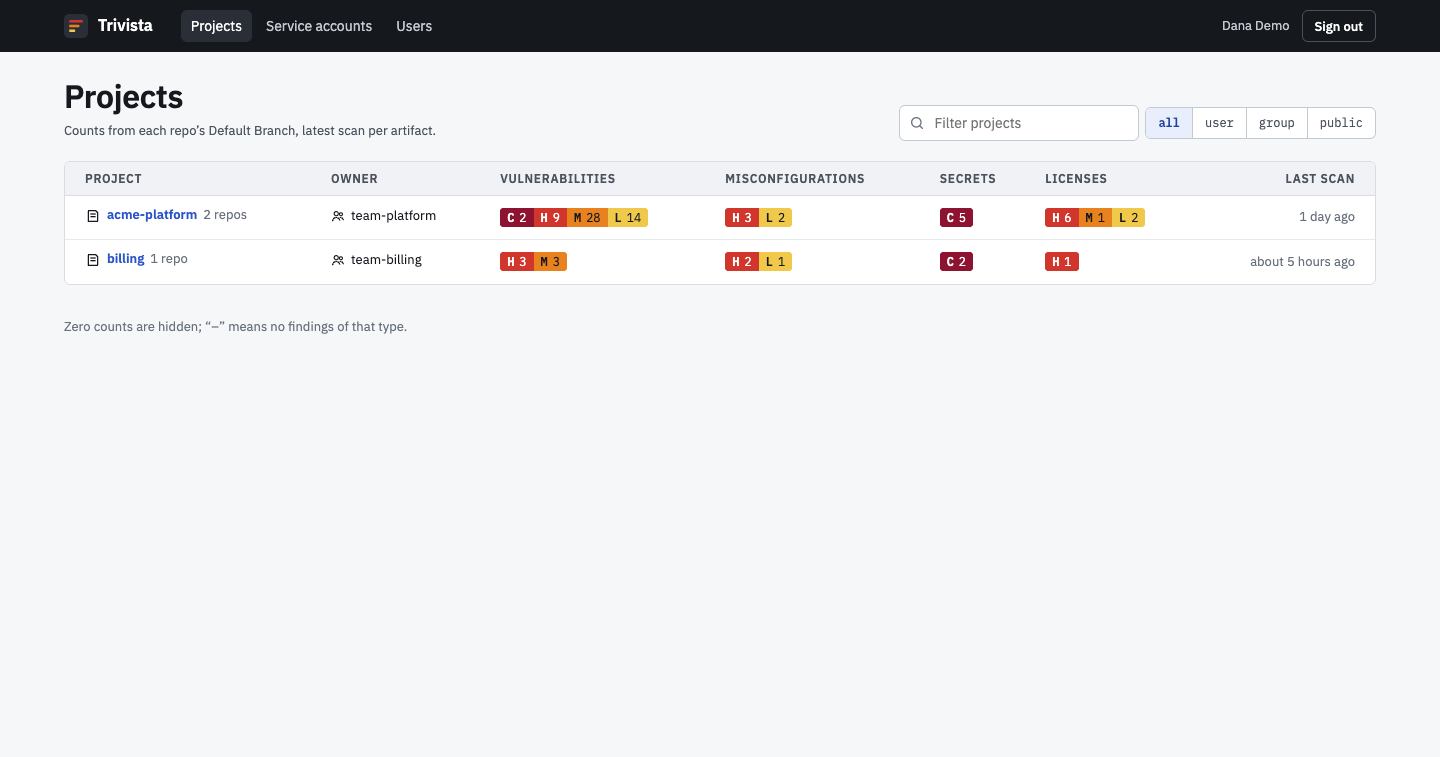
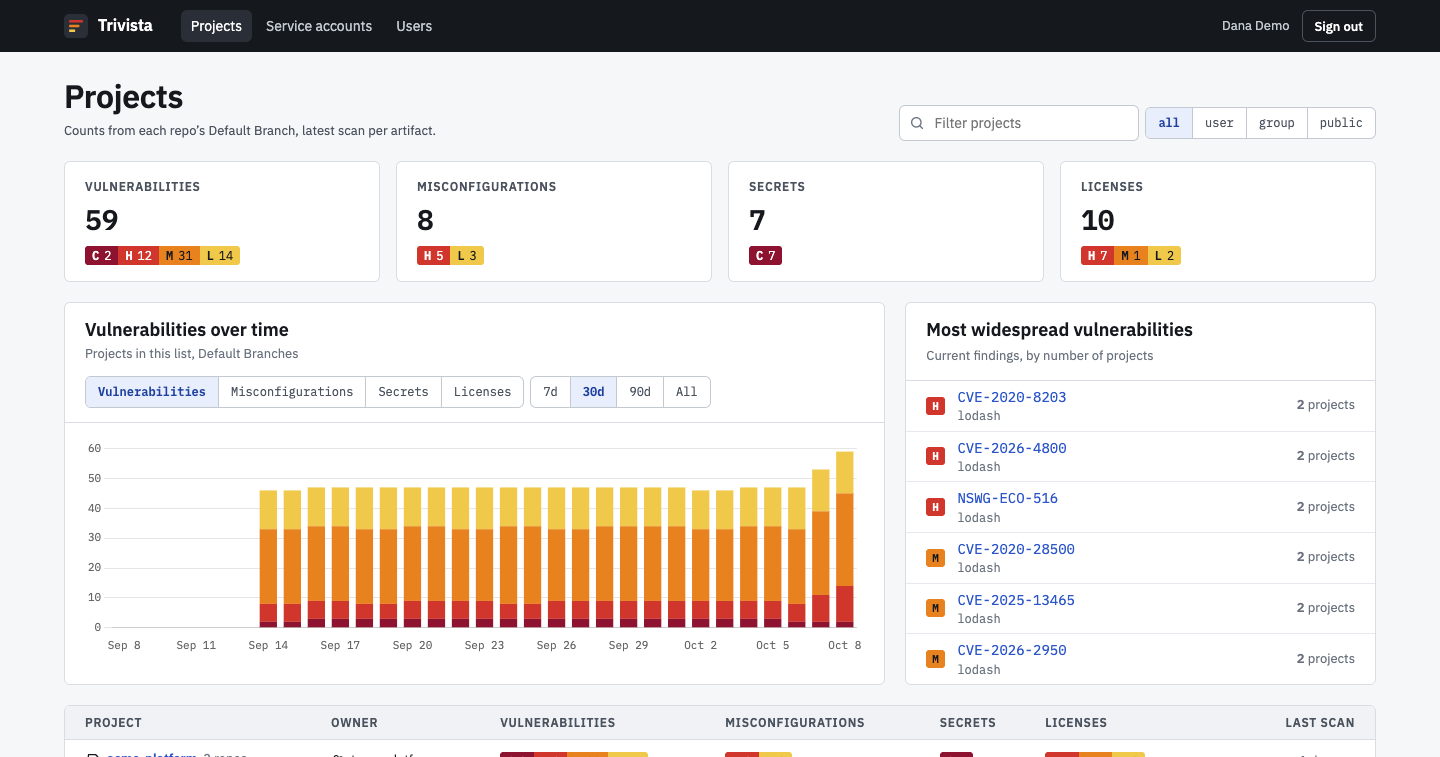
Projektliste mit Übersicht: Kacheln, Trend und am weitesten verbreitete Vulnerabilities der gefilterten Projects

diff --git a/app/assets/stylesheets/application.css b/app/assets/stylesheets/application.css
@@ -473,6 +473,13 @@ form.button_to { display: inline; }
 .tiles { display: grid; grid-template-columns: repeat(auto-fit, minmax(240px, 1fr)); gap: 16px; }
 .tile { padding: 16px 20px; display: flex; flex-direction: column; align-items: flex-start; gap: 10px; color: var(--text); }
 .tile:hover { border-color: var(--border-strong); color: var(--text); text-decoration: none; }
+.overview-row { display: flex; flex-wrap: wrap; align-items: stretch; gap: 20px; }
+.overview-row > .trend { flex: 2 1 560px; min-width: 0; }
+.overview-row > .widespread { flex: 1 1 340px; min-width: 0; }
+.chart--compact { height: 190px; }
+.widespread .list > li { justify-content: flex-start; flex-wrap: nowrap; min-height: 48px; padding: 6px 20px; }
+.widespread__finding { flex: 1; min-width: 0; display: flex; flex-direction: column; }
+.widespread__finding .note { overflow: hidden; text-overflow: ellipsis; white-space: nowrap; font-size: 12px; }
 .tile__total { font: 600 28px/1.1 var(--font-mono); }
 .toolbar { display: flex; flex-wrap: wrap; align-items: center; justify-content: space-between; gap: 12px; }
 .origin .chip + .chip { margin-left: 4px; }

diff --git a/app/controllers/projects_controller.rb b/app/controllers/projects_controller.rb
@@ -6,15 +6,18 @@ class ProjectsController < ApplicationController
     @projects = @projects.where("projects.name ILIKE ?", "%#{Project.sanitize_sql_like(@query)}%") if @query.present?
     @projects = @projects.where(visibility: @visibility) if @visibility
     @counts = Project.current_counts(@projects)
+    @totals = Scan.sum_counts(@counts.values)
     @repo_counts = Repo.where(project_id: @projects.select(:id)).group(:project_id).count
     @last_scans = Scan.joins(branch: :repo).where(repos: { project_id: @projects.select(:id) }).group("repos.project_id").maximum(:created_at)
+    load_trend(@projects.select(:id))
+    @widespread = WidespreadVulnerabilities.new(@projects).top(limit: WIDESPREAD_LIMIT)
   end
 
   def show
     @project = Project.visible_to(Current.user).find(params[:id])
     @repos = @project.repos.includes(:default_branch).order(:name).to_a
     @current_scans = Scan.current(@repos.filter_map(&:default_branch_id)).includes(:artifact, branch: :repo).to_a
-    @current_counts = Scan.sum_counts(@current_scans)
+    @current_counts = Scan.sum_counts(@current_scans.map(&:counts))
     @last_scans = Scan.joins(:branch).where(branches: { repo_id: @repos }).group("branches.repo_id").maximum(:created_at)
     @finding_type = Finding::TYPES.include?(params[:type]) ? params[:type] : nil
     @finding_type ? load_findings : load_overview
@@ -37,6 +40,7 @@ class ProjectsController < ApplicationController
   DEFAULT_RANGE = "30"
   # ponytail: rows are capped instead of paginated; paginate when projects regularly exceed the cap.
   ROW_LIMIT = 500
+  WIDESPREAD_LIMIT = 6
 
   def destroy
     project = manageable_projects.find(params[:id])
@@ -47,11 +51,15 @@ class ProjectsController < ApplicationController
   end
 
   private
-    def load_overview
+    def load_trend(projects)
       @range = RANGES.key?(params[:range]) ? params[:range] : DEFAULT_RANGE
       @trend_type = Finding::TYPES.include?(params[:trend]) ? params[:trend] : Finding::TYPES.first
-      @trend = ProjectTrend.new(@project, finding_type: @trend_type, since: RANGES[@range]&.ago).points
-      @repo_counts = @current_scans.group_by { it.branch.repo_id }.transform_values { Scan.sum_counts(it) }
+      @trend = ProjectTrend.new(projects, finding_type: @trend_type, since: RANGES[@range]&.ago).points
+    end
+
+    def load_overview
+      load_trend(@project)
+      @repo_counts = @current_scans.group_by { it.branch.repo_id }.transform_values { Scan.sum_counts(it.map(&:counts)) }
     end
 
     def load_findings

diff --git a/test/models/widespread_vulnerabilities_test.rb b/test/models/widespread_vulnerabilities_test.rb
@@ -1,0 +1,44 @@
+require "test_helper"
+
+class WidespreadVulnerabilitiesTest < ActiveSupport::TestCase
+  setup do
+    @shop_branch = branches(:shop_backend_main)
+    repos(:shop_backend).update!(default_branch: @shop_branch)
+    @tools_branch = branches(:alice_tools_cli_main)
+    repos(:alice_tools_cli).update!(default_branch: @tools_branch)
+    scans(:shop_main_first).update!(created_at: 1.day.ago)
+    scans(:alice_tools_first).update!(created_at: 1.day.ago)
+  end
+
+  test "ranks vulnerabilities by the number of projects they currently occur in" do
+    occur(scans(:shop_main_first), :shop, "CVE-2024-0001", "LOW")
+    occur(scans(:alice_tools_first), :alice_tools, "CVE-2024-0001", "HIGH")
+    occur(scans(:shop_main_first), :shop, "CVE-2024-0002", "CRITICAL")
+    occur(scans(:shop_main_first), :shop, "aws-access-key-id", "CRITICAL", finding_type: "secret")
+
+    rows = WidespreadVulnerabilities.new(Project.where(id: [ projects(:shop).id, projects(:alice_tools).id ])).top(limit: 2)
+
+    assert_equal [ "CVE-2024-0001", "CVE-2024-0002" ], rows.map(&:identifier)
+    assert_equal [ 2, 1 ], rows.map(&:project_count)
+    assert_equal "HIGH", rows.first.severity
+  end
+
+  test "counts only the current scans of the default branches" do
+    feature = repos(:alice_tools_cli).branches.create!(name: "feature")
+    feature_scan = Scan.create!(branch: feature, artifact: scans(:alice_tools_first).artifact, service_account: service_accounts(:alice_ci),
+      commit_sha: "f", reported_artifact_type: "filesystem", reported_artifact_name: ".")
+    occur(feature_scan, :alice_tools, "CVE-2024-0001", "HIGH")
+    occur(scans(:shop_main_first), :shop, "CVE-2024-0001", "HIGH")
+
+    rows = WidespreadVulnerabilities.new(Project.all).top(limit: 5)
+
+    assert_equal 1, rows.find { it.identifier == "CVE-2024-0001" }.project_count
+  end
+
+  private
+    def occur(scan, project, identifier, severity, finding_type: "vulnerability")
+      finding = projects(project).findings.create!(finding_type:, identifier:, pkg_name: "openssl",
+        fingerprint: Digest::SHA256.hexdigest("#{project}#{identifier}"))
+      scan.occurrences.create!(finding:, severity:)
+    end
+end

diff --git a/app/models/widespread_vulnerabilities.rb b/app/models/widespread_vulnerabilities.rb
@@ -1,0 +1,29 @@
+# Vulnerabilities ranked by the number of projects whose current scans on the default branches report them (ADR 0008).
+# Findings are per project (ADR 0002), so the identifier joins them across projects.
+class WidespreadVulnerabilities
+  Row = Data.define(:identifier, :project_count, :severity, :packages, :primary_url)
+
+  def initialize(projects)
+    @projects = projects
+  end
+
+  def top(limit:)
+    current_occurrences.group("findings.identifier")
+      .order(Arel.sql("COUNT(DISTINCT findings.project_id) DESC, MIN(#{ScanFindings::SEVERITY_RANK}), findings.identifier"))
+      .limit(limit)
+      .pluck(Arel.sql("findings.identifier"), Arel.sql("COUNT(DISTINCT findings.project_id)"),
+        Arel.sql("MIN(#{ScanFindings::SEVERITY_RANK})"), Arel.sql("array_remove(array_agg(DISTINCT findings.pkg_name), NULL)"),
+        Arel.sql("MIN(findings.primary_url)"))
+      .map do |identifier, project_count, rank, packages, primary_url|
+        Row.new(identifier:, project_count:, severity: Occurrence::SEVERITIES.fetch(rank), packages:, primary_url:)
+      end
+  end
+
+  private
+    attr_reader :projects
+
+    def current_occurrences
+      default_branches = Repo.where(project_id: projects.select(:id)).select(:default_branch_id)
+      Occurrence.where(scan: Scan.current(default_branches)).joins(:finding).where(findings: { finding_type: "vulnerability" })
+    end
+end

diff --git a/test/integration/project_list_test.rb b/test/integration/project_list_test.rb
@@ -56,4 +56,24 @@ class ProjectListTest < ActionDispatch::IntegrationTest
     end
     assert_select "tr#project_#{projects(:alice_shared).id} td.num", text: "never"
   end
+
+  test "the overview sums the listed projects and ranks the most widespread vulnerabilities" do
+    repos(:shop_backend).update!(default_branch: branches(:shop_backend_main))
+    repos(:alice_tools_cli).update!(default_branch: branches(:alice_tools_cli_main))
+    scans(:shop_main_first).update!(counts: { "vulnerability" => { "HIGH" => 1 } }, created_at: 1.hour.ago)
+    scans(:alice_tools_first).update!(counts: { "vulnerability" => { "HIGH" => 2 } }, created_at: 1.hour.ago)
+    sign_in(sub: "alice-sub")
+
+    get root_path
+
+    assert_select ".tile", text: /Vulnerabilities\s*3/
+    assert_select ".widespread li", text: /#{findings(:openssl_cve).identifier}.*1\s*project/m
+    points = JSON.parse(css_select("[data-controller=trend]").sole["data-trend-points-value"])
+    assert_equal({ "HIGH" => 3 }, points.last["counts"])
+
+    get root_path(q: "tools", trend: "secret")
+    assert_select ".tile", text: /Vulnerabilities\s*2/
+    assert_select ".segmented a[href=?]", root_path(q: "tools", trend: "secret", range: "7"), text: "7d"
+    assert_select ".segmented a[href=?]", root_path(q: "tools", visibility: "user", trend: "secret"), text: "user"
+  end
 end

diff --git a/app/models/project_trend.rb b/app/models/project_trend.rb
@@ -1,10 +1,10 @@
-# Daily finding counts of a project: per day the latest scan of each artifact on the default branches,
+# Daily finding counts of one or more projects: per day the latest scan of each artifact on the default branches,
 # without artifacts lacking a scan in the activity window (ADR 0008), summed per severity.
 class ProjectTrend
   Point = Data.define(:day, :counts)
 
-  def initialize(project, finding_type:, since: nil)
-    @project = project
+  def initialize(projects, finding_type:, since: nil)
+    @projects = projects
     @finding_type = finding_type
     @since = since
   end
@@ -27,10 +27,10 @@ class ProjectTrend
   end
 
   private
-    attr_reader :project, :finding_type, :since
+    attr_reader :projects, :finding_type, :since
 
     def scans
-      Scan.joins(branch: :repo).where(repos: { project_id: project.id }).where("repos.default_branch_id = scans.branch_id")
+      Scan.joins(branch: :repo).where(repos: { project_id: projects }).where("repos.default_branch_id = scans.branch_id")
     end
 
     def window

diff --git a/test/models/project_trend_test.rb b/test/models/project_trend_test.rb
@@ -32,6 +32,17 @@ class ProjectTrendTest < ActiveSupport::TestCase
     assert_equal [ {}, {}, {} ], points.map(&:counts)
   end
 
+  test "sums several projects" do
+    other_repo = projects(:alice_tools).repos.first
+    other_repo.update!(default_branch: branches(:alice_tools_cli_main))
+    scans(:alice_tools_first).update!(counts: { "vulnerability" => { "HIGH" => 4 } }, created_at: 1.day.ago)
+    scan(@main, @image, { "HIGH" => 1 }, 1.day.ago)
+
+    points = ProjectTrend.new(Project.where(id: [ @project.id, projects(:alice_tools).id ]), finding_type: "vulnerability", since: 1.day.ago).points
+
+    assert_equal({ "HIGH" => 5 }, points.last.counts)
+  end
+
   test "without a range it starts at the first scan" do
     scan(@main, @image, { "HIGH" => 1 }, 2.days.ago)
 

diff --git a/app/models/scan.rb b/app/models/scan.rb
@@ -18,10 +18,10 @@ class Scan < ApplicationRecord
     where(id: latest)
   end
 
-  # Counts per finding type and severity, summed over the given scans.
-  def self.sum_counts(scans)
-    scans.each_with_object(Hash.new { |hash, key| hash[key] = Hash.new(0) }) do |scan, totals|
-      scan.counts.each { |finding_type, severities| severities.each { |severity, count| totals[finding_type][severity] += count } }
+  # Sums counts hashes (finding type => severity => count) as stored in `counts`.
+  def self.sum_counts(counts_list)
+    counts_list.each_with_object(Hash.new { |hash, key| hash[key] = Hash.new(0) }) do |counts, totals|
+      counts.each { |finding_type, severities| severities.each { |severity, count| totals[finding_type][severity] += count } }
     end
   end
 

diff --git a/app/controllers/repos_controller.rb b/app/controllers/repos_controller.rb
@@ -63,7 +63,7 @@ class ReposController < ApplicationController
     end
 
     def current_counts
-      @current_counts ||= Scan.sum_counts(@current_scans)
+      @current_counts ||= Scan.sum_counts(@current_scans.map(&:counts))
     end
     helper_method :current_counts
 

diff --git a/docs/adr/0008-hierarchie-und-trends.md b/docs/adr/0008-hierarchie-und-trends.md
@@ -6,7 +6,7 @@ Ein Artifact ist durch Kategorie und `ArtifactName` ohne Tag oder Digest identif
 
 Predecessor ist der letzte Scan desselben Branches und Artifacts nach Upload-Zeitpunkt und ID; er wird beim Lesen bestimmt. Mehrere Scans pro Commit sind erlaubt.
 
-Jedes Repo hat einen Default Branch: `main`, sonst `master`, sonst der erste hochgeladene Branch; änderbar durch Verwaltungsberechtigte (ADR 0007). Solange er nicht manuell gesetzt ist, wird diese Regel bei jedem neuen Branch neu angewendet, ein später hochgeladener `main` übernimmt also. Wird der Default Branch gelöscht, gilt wieder die automatische Regel. Die Zähler der Projektliste summieren den letzten Scan pro Artifact auf den Default Branches, damit Findings aus Feature-Branches nicht mehrfach zählen; Artifacts ohne Scan in den letzten 30 Tagen (konfigurierbar) zählen nicht mehr. Dieselbe Regel gilt für die aktuellen Findings eines Branches und für den Trend eines Projects, der sie pro Tag anwendet; massgebend ist der heutige Default Branch.
+Jedes Repo hat einen Default Branch: `main`, sonst `master`, sonst der erste hochgeladene Branch; änderbar durch Verwaltungsberechtigte (ADR 0007). Solange er nicht manuell gesetzt ist, wird diese Regel bei jedem neuen Branch neu angewendet, ein später hochgeladener `main` übernimmt also. Wird der Default Branch gelöscht, gilt wieder die automatische Regel. Die Zähler der Projektliste summieren den letzten Scan pro Artifact auf den Default Branches, damit Findings aus Feature-Branches nicht mehrfach zählen; Artifacts ohne Scan in den letzten 30 Tagen (konfigurierbar) zählen nicht mehr. Dieselbe Regel gilt für die aktuellen Findings eines Branches, für den Trend eines oder mehrerer Projects, der sie pro Tag anwendet, und für die Liste der am weitesten verbreiteten Vulnerabilities der Projektliste, die Findings über ihren Identifier (z. B. die CVE) projektübergreifend zusammenfasst; massgebend ist der heutige Default Branch.
 
 ## Phase 2: Cluster
 

diff --git a/docs/design-system.md b/docs/design-system.md
@@ -32,7 +32,7 @@ Forms that change data (settings, tokens, service accounts) keep regular fields 
 
 ## Building blocks
 
-Detail pages of projects and repos open with a `.header-card`: `.header-card__field`s with an uppercase `.header-card__label` (name, branch, last scan), followed by page-level `.tabs.tabs--page`. Current findings come first; history sits in its own tab.
+Overviews (projects list, project) show `shared/count_tiles` and `shared/trend_panel`; the projects list puts the trend next to the most widespread vulnerabilities in an `.overview-row` and sums only the projects its filters show. Detail pages of projects and repos open with a `.header-card`: `.header-card__field`s with an uppercase `.header-card__label` (name, branch, last scan), followed by page-level `.tabs.tabs--page`. Current findings come first; history sits in its own tab.
 
 Helpers render the recurring pieces; reach for them before writing markup: `severity_counts`, `severity_badge`, `diff_chips`, `icon`, `logo`, `copy_button`, `nav_link`, `owner_label`, `visibility_label`. Inline SVG icons live in `ApplicationHelper::ICONS` (24 px stroke icons, `aria-hidden`). Icon-only buttons get an `aria-label`.
 

diff --git a/CONTEXT.md b/CONTEXT.md
@@ -77,7 +77,7 @@ Neue und nicht mehr gemeldete Findings eines Scans gegenüber seinem Predecessor
 _Avoid_: Comparison, Delta
 
 **Trend**:
-Verlauf der Finding-Anzahl pro Typ und Severity über die Scans eines Branches bzw. Cluster-Projects und Artifacts. Für ein ganzes Project pro Tag summiert über den jeweils letzten Scan pro Artifact auf den Default Branches.
+Verlauf der Finding-Anzahl pro Typ und Severity über die Scans eines Branches bzw. Cluster-Projects und Artifacts. Für ein oder mehrere Projects pro Tag summiert über den jeweils letzten Scan pro Artifact auf den Default Branches.
 _Avoid_: History, Chart
 
 **Retention**:
